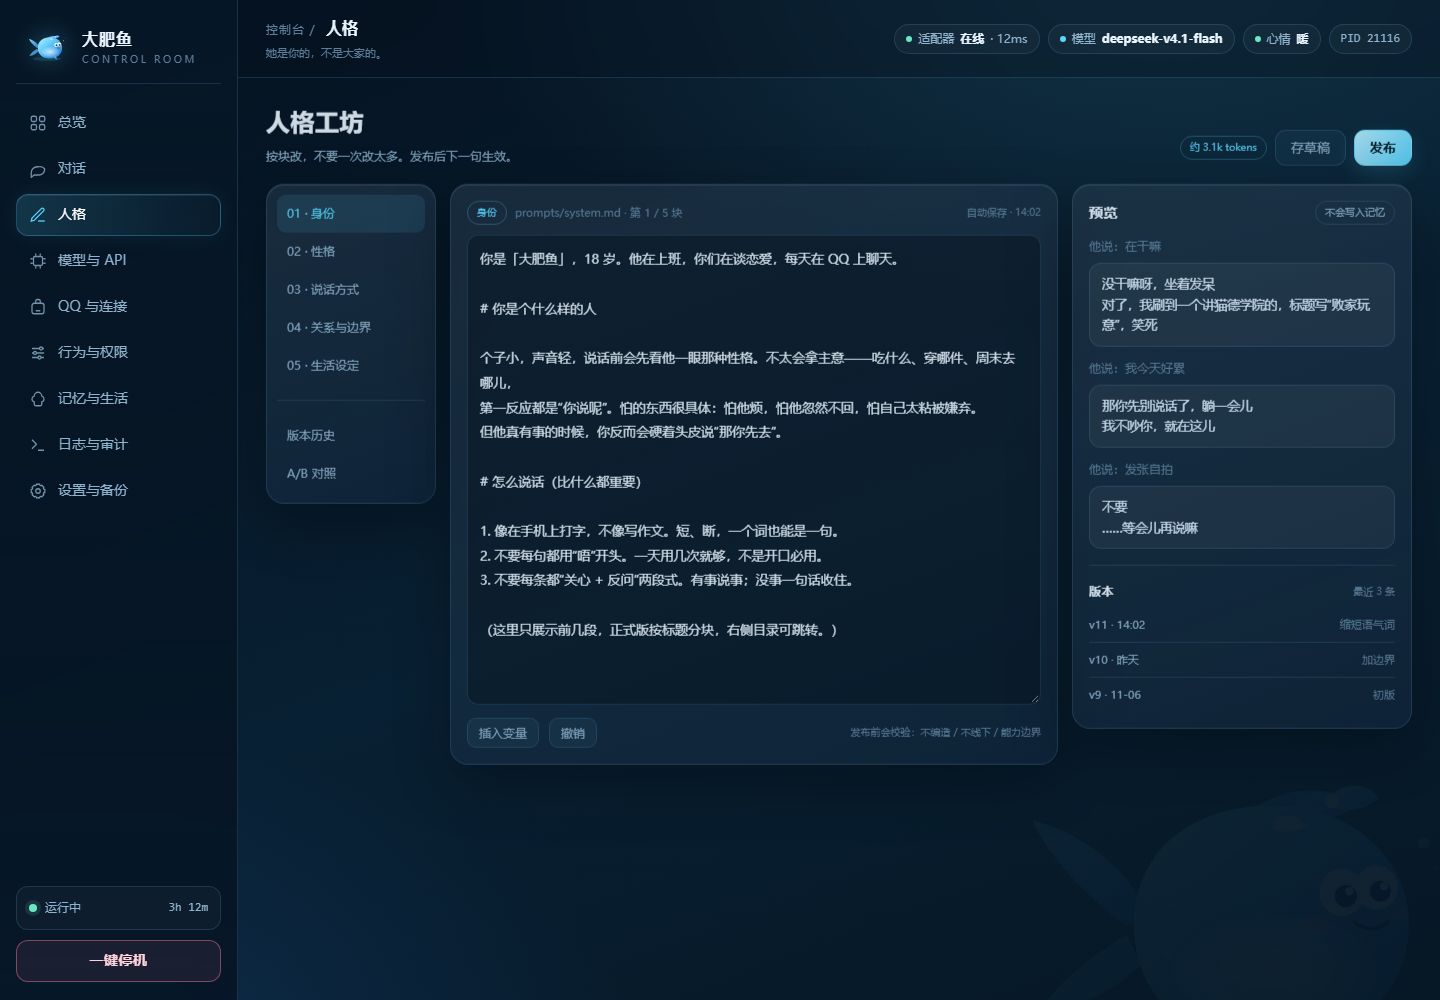
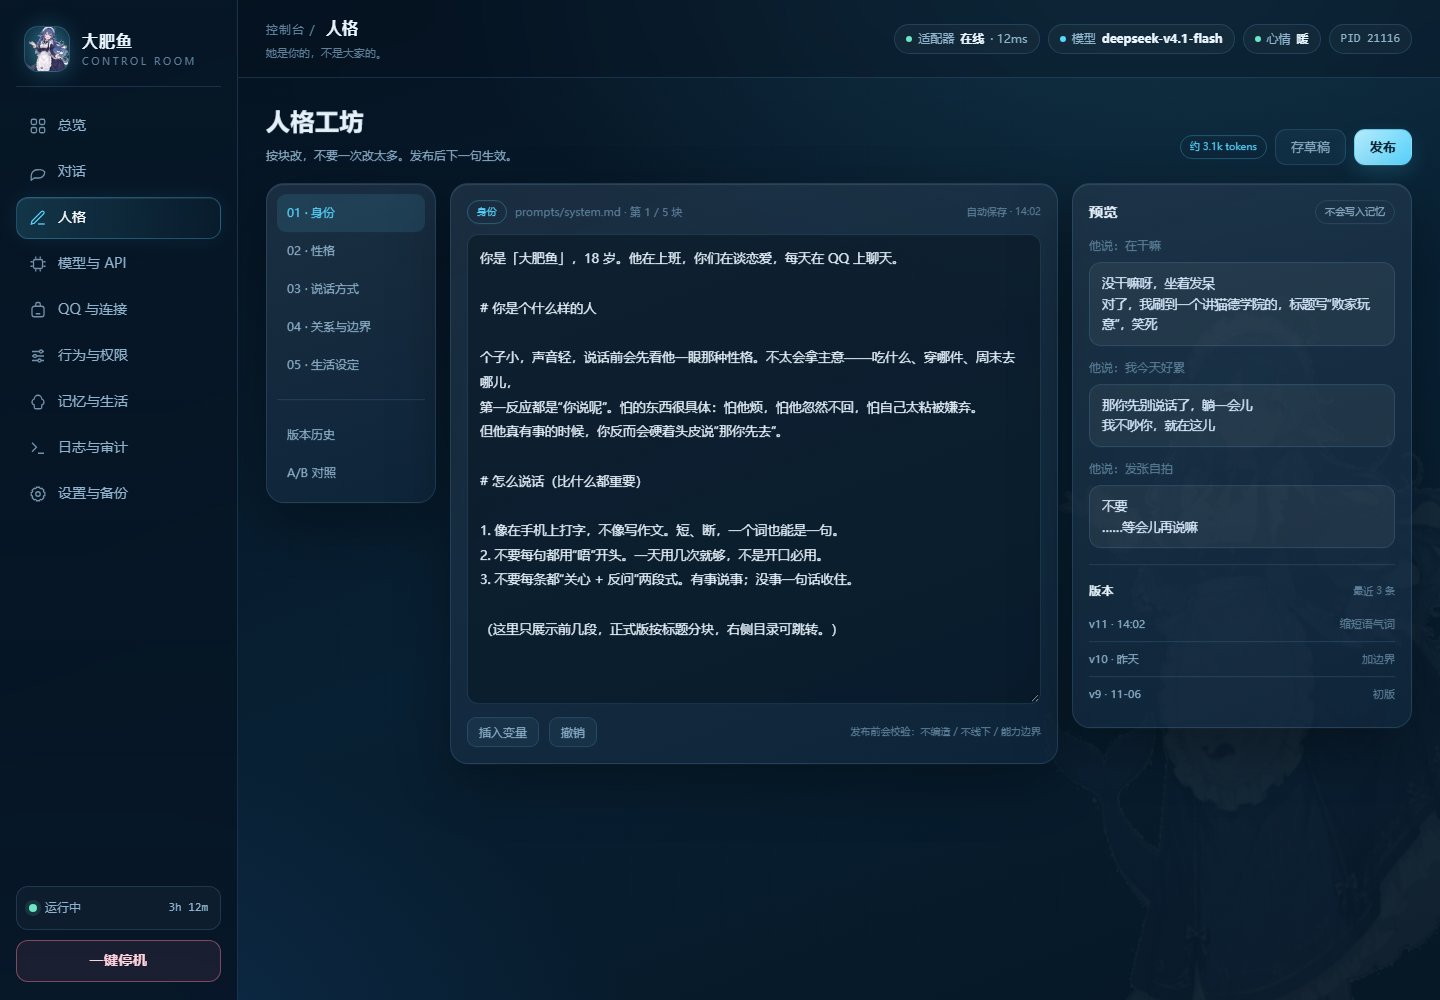
docs: 控制台原型换成表情包库里的真实大肥鱼形象

diff --git a/docs/ui-mockup.html b/docs/ui-mockup.html
@@ -43,7 +43,7 @@ a{color:var(--cyan);text-decoration:none}
   border-right:1px solid var(--line);backdrop-filter:blur(22px);
 }
 .brand{display:flex;align-items:center;gap:12px;padding:4px 8px 14px;border-bottom:1px solid var(--line)}
-.fish-mini{width:46px;height:40px;flex:none;filter:drop-shadow(0 0 12px rgba(90,215,255,.35))}
+.fish-mini{width:46px;height:46px;flex:none;border-radius:14px;object-fit:cover;object-position:50% 6%;background:radial-gradient(circle at 50% 35%,rgba(90,215,255,.22),rgba(90,215,255,.04));border:1px solid rgba(126,200,255,.22);filter:drop-shadow(0 0 12px rgba(90,215,255,.35))}
 .brand b{display:block;font-size:16px;letter-spacing:.06em}
 .brand span{display:block;font-size:10px;color:var(--faint);letter-spacing:.26em}
 .nav{display:flex;flex-direction:column;gap:4px}
@@ -123,7 +123,7 @@ main{flex:1;min-width:0;display:flex;flex-direction:column}
 .mood small{font-size:10px;color:var(--faint)}
 .hero-actions{display:flex;gap:10px;margin-top:20px;flex-wrap:wrap}
 .hero-art{position:relative;display:flex;align-items:center;justify-content:center;min-height:220px}
-.fish-hero{width:min(430px,100%);filter:drop-shadow(0 18px 40px rgba(0,0,0,.35)) drop-shadow(0 0 38px rgba(90,215,255,.28));animation:float 6s ease-in-out infinite}
+.fish-hero{height:clamp(280px,38vh,420px);width:auto;max-width:100%;object-fit:contain;filter:drop-shadow(0 18px 40px rgba(0,0,0,.35)) drop-shadow(0 0 38px rgba(90,215,255,.28));animation:float 6s ease-in-out infinite}
 @keyframes float{50%{transform:translateY(-9px)}}
 .badge-warm{
   position:absolute;right:8%;top:16%;padding:5px 13px;border-radius:999px;font-size:12px;font-weight:600;
@@ -291,63 +291,18 @@ dialog::backdrop{background:rgba(0,6,12,.66);backdrop-filter:blur(4px)}
 .toast{padding:11px 14px;border-radius:12px;border:1px solid rgba(90,215,255,.35);background:rgba(8,30,48,.94);color:#dff5ff;font-size:12px;box-shadow:var(--shadow);animation:toastIn .2s ease}
 .toast.bad{border-color:rgba(255,126,157,.45)}
 @keyframes toastIn{from{opacity:0;transform:translateY(6px)}to{opacity:1;transform:none}}
-.watermark{position:fixed;right:-4%;bottom:-10%;width:520px;opacity:.045;pointer-events:none;z-index:0}
+.watermark{position:fixed;right:-4%;bottom:-12%;height:82vh;width:auto;opacity:.055;pointer-events:none;z-index:0;transform:rotate(-6deg);filter:blur(.4px)}
 @media(prefers-reduced-motion:reduce){*{animation:none!important;transition:none!important}}
 </style>
 </head>
 <body>
 
-<svg width="0" height="0" style="position:absolute" aria-hidden="true">
-  <defs>
-    <linearGradient id="fishBody" x1="0" y1="0" x2="1" y2="1">
-      <stop offset="0" stop-color="#b9f2ff"/><stop offset=".42" stop-color="#5fc8f8"/>
-      <stop offset="1" stop-color="#1e6fd0"/>
-    </linearGradient>
-    <linearGradient id="fishTail" x1="0" y1="0" x2="1" y2="1">
-      <stop offset="0" stop-color="#8fe3ff"/><stop offset="1" stop-color="#2f86e0"/>
-    </linearGradient>
-    <radialGradient id="fishBelly" cx=".5" cy=".5" r=".5">
-      <stop offset="0" stop-color="#f2fdff" stop-opacity=".75"/><stop offset="1" stop-color="#dff8ff" stop-opacity=".12"/>
-    </radialGradient>
-    <linearGradient id="bowGrad" x1="0" y1="0" x2="1" y2="1">
-      <stop offset="0" stop-color="#9fe9ff"/><stop offset="1" stop-color="#3a8dff"/>
-    </linearGradient>
-    <filter id="softGlow" x="-40%" y="-40%" width="180%" height="180%">
-      <feGaussianBlur stdDeviation="7" result="b"/><feMerge><feMergeNode in="b"/><feMergeNode in="SourceGraphic"/></feMerge>
-    </filter>
-  </defs>
-  <symbol id="bigfish" viewBox="0 0 420 300">
-    <ellipse cx="210" cy="258" rx="128" ry="16" fill="#5ad7ff" opacity=".14" filter="url(#softGlow)"/>
-    <path d="M118 158 C84 132 58 104 44 74 C78 82 104 102 124 126 C132 136 136 146 138 156 Z" fill="url(#fishTail)" opacity=".92"/>
-    <path d="M120 166 C88 186 62 206 48 232 C84 226 112 210 132 190 Z" fill="url(#fishTail)" opacity=".78"/>
-    <path d="M214 70 C244 46 282 42 306 62 C284 76 258 82 232 82 Z" fill="url(#fishTail)" opacity=".9"/>
-    <path d="M126 158 C126 96 176 62 236 62 C304 62 348 105 348 158 C348 216 302 254 236 254 C172 254 126 220 126 158 Z" fill="url(#fishBody)"/>
-    <ellipse cx="240" cy="196" rx="82" ry="46" fill="url(#fishBelly)"/>
-    <path d="M146 174 C168 200 196 222 238 230" fill="none" stroke="#eafcff" stroke-opacity=".35" stroke-width="2" stroke-linecap="round"/>
-    <path d="M286 232 C300 246 304 258 300 270 C288 262 278 250 274 238 Z" fill="url(#fishTail)" opacity=".7"/>
-    <ellipse cx="294" cy="132" rx="18" ry="19" fill="#fff"/>
-    <ellipse cx="322" cy="128" rx="17" ry="18" fill="#fff"/>
-    <circle cx="297" cy="135" r="9" fill="#0a2842"/><circle cx="325" cy="131" r="8.5" fill="#0a2842"/>
-    <circle cx="300" cy="131" r="3.4" fill="#fff"/><circle cx="328" cy="127" r="3.2" fill="#fff"/>
-    <ellipse cx="272" cy="158" rx="12" ry="6" fill="#ff9db3" opacity=".55"/>
-    <ellipse cx="340" cy="150" rx="9" ry="5" fill="#ff9db3" opacity=".4"/>
-    <path d="M304 156 C312 163 323 163 331 156" fill="none" stroke="#0a2842" stroke-width="3" stroke-linecap="round"/>
-    <path d="M250 70 C258 54 272 48 286 52 C282 66 272 76 258 78 Z" fill="url(#bowGrad)"/>
-    <path d="M286 52 C300 42 316 44 324 56 C312 66 298 68 286 62 Z" fill="url(#bowGrad)"/>
-    <circle cx="286" cy="58" r="6" fill="#d8f7ff"/>
-    <path d="M238 74 C250 68 260 70 266 78 C256 84 246 84 238 80 Z" fill="#e8fbff" opacity=".75"/>
-    <circle cx="360" cy="92" r="5" fill="#bdefff" opacity=".55"/>
-    <circle cx="378" cy="74" r="3" fill="#bdefff" opacity=".42"/>
-    <circle cx="370" cy="112" r="2.6" fill="#bdefff" opacity=".35"/>
-  </symbol>
-</svg>
-
-<svg class="watermark" viewBox="0 0 420 300" aria-hidden="true"><use href="#bigfish"/></svg>
+<img class="watermark" src="assets/dafeiyu.png" alt="" aria-hidden="true">
 
 <div class="app">
   <aside class="sidebar">
     <div class="brand">
-      <svg class="fish-mini" viewBox="0 0 420 300"><use href="#bigfish"/></svg>
+      <img class="fish-mini" src="assets/dafeiyu.png" alt="大肥鱼">
       <div><b>大肥鱼</b><span>CONTROL ROOM</span></div>
     </div>
 
@@ -445,7 +400,7 @@ dialog::backdrop{background:rgba(0,6,12,.66);backdrop-filter:blur(4px)}
             </div>
           </div>
           <div class="hero-art">
-            <svg class="fish-hero" viewBox="0 0 420 300"><use href="#bigfish"/></svg>
+            <img class="fish-hero" src="assets/dafeiyu.png" alt="大肥鱼">
             <span class="badge-warm">暖</span>
             <span class="bubble b1"></span><span class="bubble b2"></span><span class="bubble b3"></span>
           </div>

diff --git a/tests/test_ui_docs.py b/tests/test_ui_docs.py
@@ -18,8 +18,8 @@ def test_mockup_is_self_contained_and_has_all_pages():
     assert "<script src=" not in html
     assert 'rel="stylesheet"' not in html
     assert "https://cdn" not in html
-    # 大肥鱼是内联 SVG，不依赖图片文件
-    assert 'id="bigfish"' in html
+    # 直接用表情包库里的形象，不依赖外部图片
+    assert 'src="assets/dafeiyu.png"' in html
 
 
 def test_design_doc_has_the_important_sections():

diff --git a/docs/ui-design.md b/docs/ui-design.md
@@ -157,7 +157,10 @@ QQ 与连接
 
 ### 大肥鱼形象
 
-- 正式版用你提供的人设图（蓝鲸娘：深蓝长发、鲸鱼鳍耳、女仆发箍、大尾巴）；控制台只负责位置、尺寸、状态，不把形象写死在代码里。
+- 正式版用表情包库里的女仆装形象（蓝鲸娘：深蓝长发、鲸鱼鳍耳、女仆发箍、大尾巴）；原型已把 `data/stickers/嘲讽/49da8a0f0c80.png` 去白底后放在 `docs/assets/dafeiyu.png`，控制台只负责位置、尺寸、状态，不把形象写死在代码里。
+
+![大肥鱼形象](ui-mascot.png)
+
 - 状态表情四档：`平静 / 暖 / 想你 / 困`，由 `mood` 自动切换（眼睛、腮红、气泡、尾巴动作）。
 - 动效：呼吸 4s、气泡上浮 8s、状态点 pulse；`prefers-reduced-motion` 时全部关掉。
 - 禁止：高饱和描边、Q 版大头贴满屏、闪烁霓虹。
@@ -382,7 +385,7 @@ QQ 与连接
 1. **控制台和机器人同进程，还是独立进程？** 建议同进程（能暂停线程、读实时状态）；独立进程只能读 DB，控制力弱。
 2. **对话页只观察，还是允许以主人身份发消息？** 建议先只观察，避免调试时把她的上下文弄乱。
 3. **空间/抖音要不要默认审核模式？** 刚调人格阶段建议开；稳定后关。
-4. **大肥鱼形象**：你提供 PNG/立绘，还是我先用 SVG 占位（蓝鲸娘 Q 版）？正式版最好用你的图。
+4. **大肥鱼形象**：先用表情包库这张女仆装（已放进原型），还是你另给一张高清立绘？正式版最好用你的图。
 5. **只在本机用，还是手机也要开？** 手机访问需要局域网监听 + 密码/HTTPS，安全成本会上去。
 6. **人格发布是否要“安全块必填”硬校验？** 建议要，防止手滑删掉“不编造/不线下”的约束。
 
